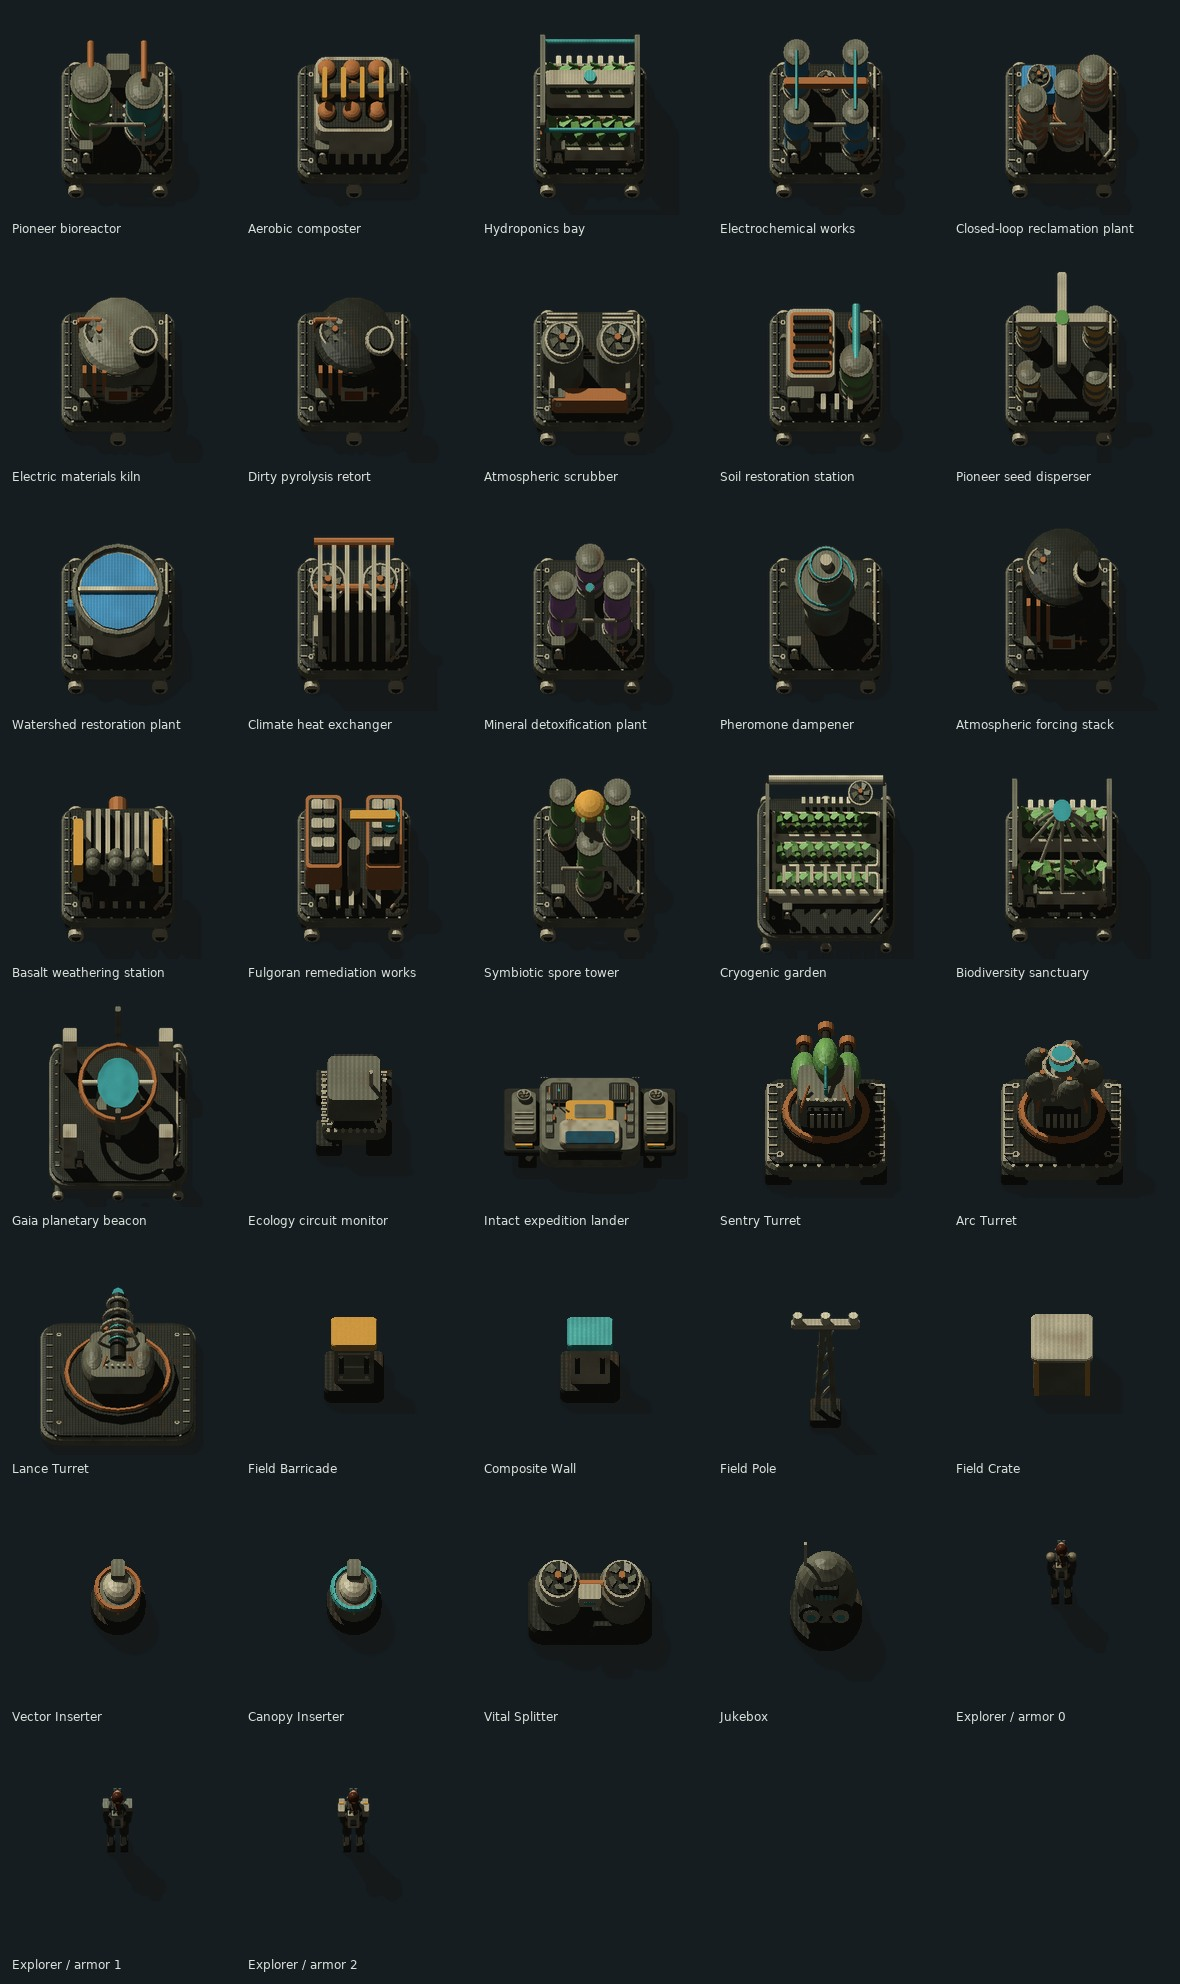
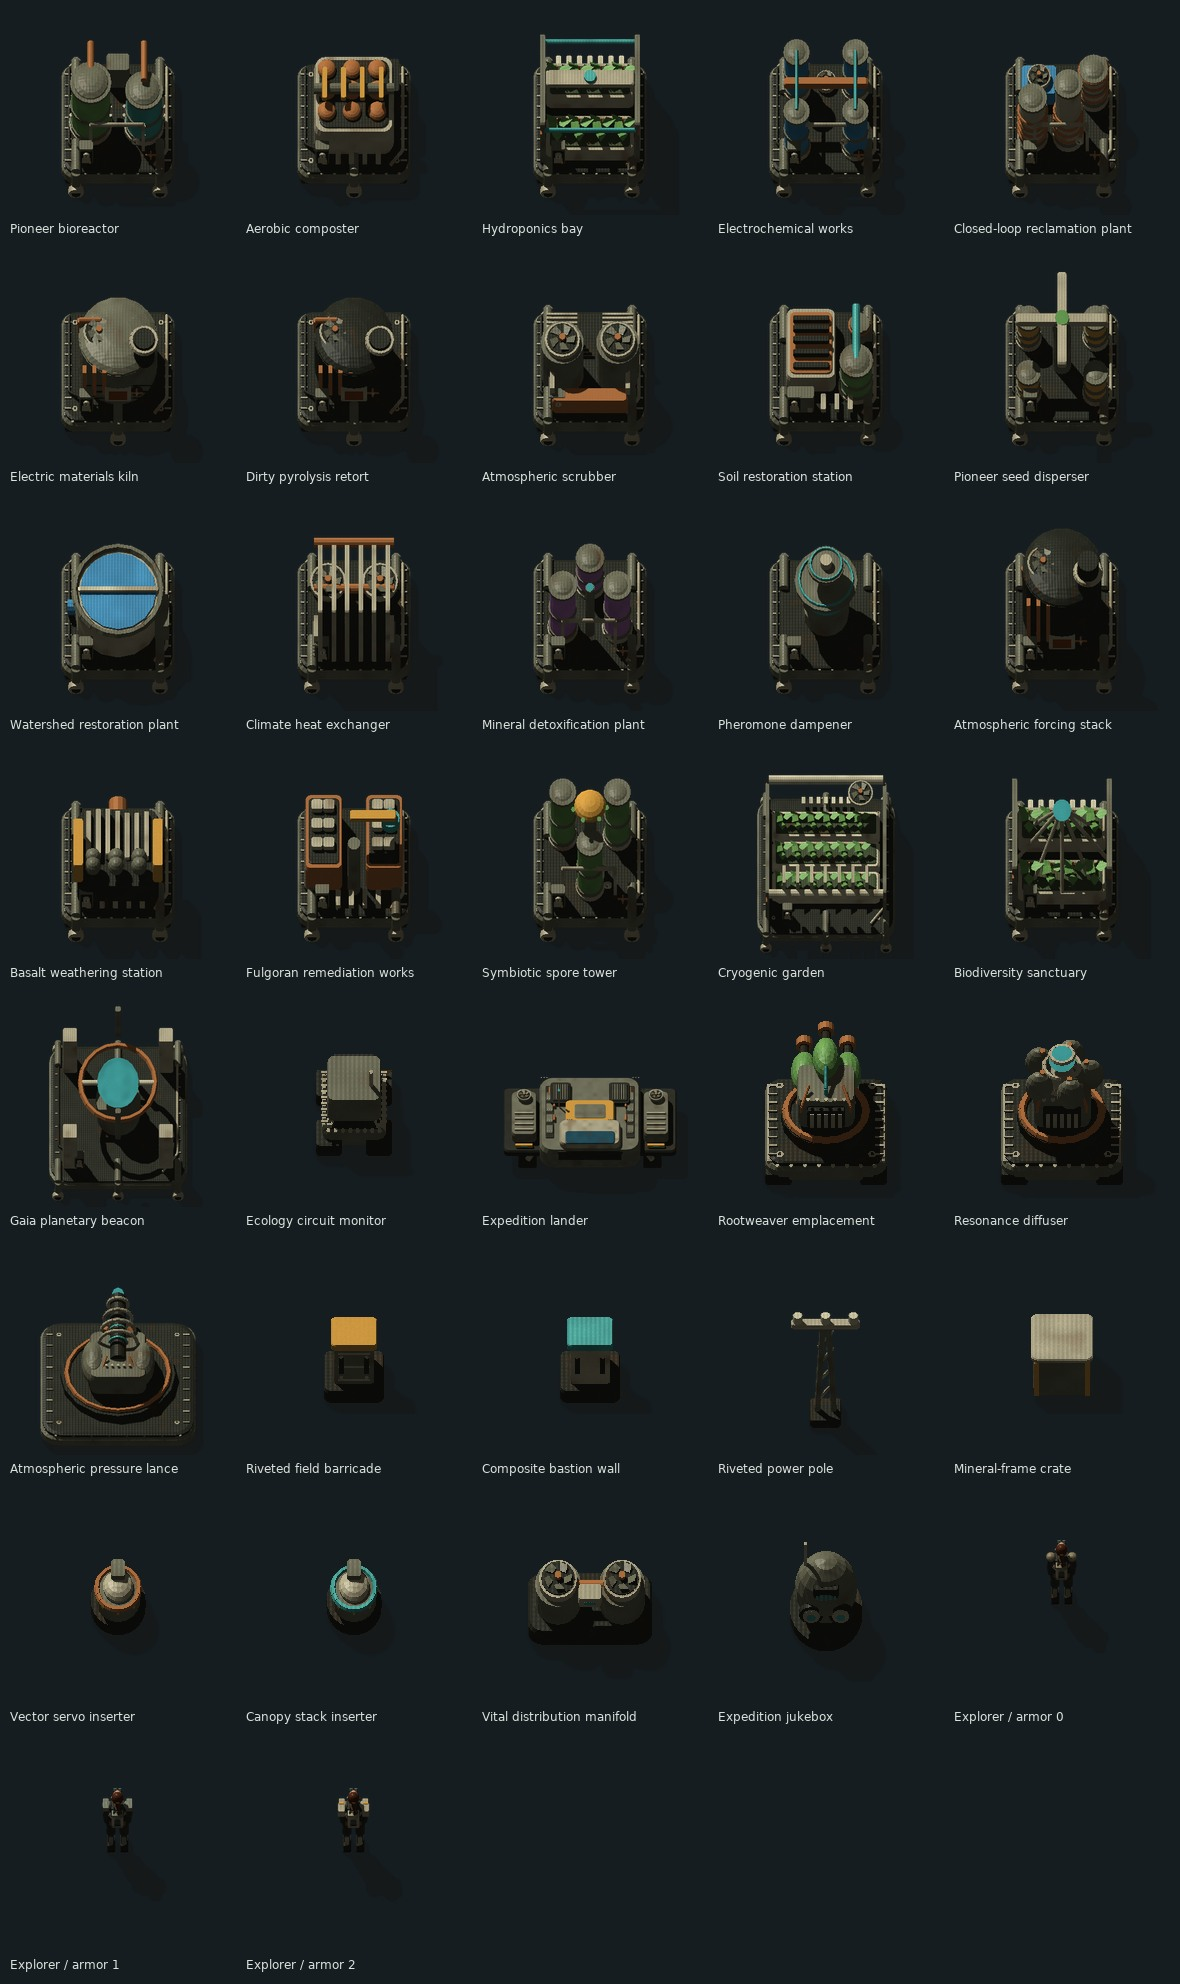
Record Living World engine checks and complete audio asset validation

diff --git a/tests/test_logistics.py b/tests/test_logistics.py
@@ -132,3 +132,27 @@ def test_opening_is_one_complete_native_hero_track_and_replayable_archive(advanc
     jukebox=data['programmable-speaker']['sn-jukebox']
     assert len(jukebox.instruments[1].notes)==4 and jukebox.maximum_polyphony==1
     assert jukebox.instruments[1].notes[3].sound.filename.endswith('we-need-a-living-world.ogg')
+
+
+def test_arrival_audio_contains_complete_voice_then_song_and_saved_lyrics():
+    import json,struct,hashlib
+    from catalog import MOD
+    report=json.loads((ROOT/'docs/art/living-world-score.json').read_text())
+    assert report['intro_seconds']>30 and report['song_seconds']==160
+    assert report['suite_seconds']>report['intro_seconds']+report['song_seconds']
+    assert 'not singing' in report['vocals']
+    assert 'humanity' in ' '.join(report['lyrics'].values()).lower()
+    assert 'green and lush' in report['lyrics']['chorus'].lower()
+    for name,expected in [('we-need-a-living-world.ogg',report['song_seconds']),('landing-transmission.ogg',report['suite_seconds'])]:
+        data=(MOD/'sound/music'/name).read_bytes();assert data[:4]==b'OggS'
+        first=27+data[26];assert data[first:first+7]==b'\x01vorbis'
+        rate=struct.unpack_from('<I',data,first+12)[0];assert rate==32000 and data[first+11]==2
+        position=0;granule=0
+        while position<len(data):
+            assert data[position:position+4]==b'OggS'
+            count=data[position+26];header=27+count
+            value=struct.unpack_from('<Q',data,position+6)[0]
+            if value<2**63:granule=max(granule,value)
+            position+=header+sum(data[position+27:position+header])
+        assert abs(granule/rate-expected)<.05
+        assert hashlib.sha256(data).hexdigest()==report['sha256'][name]

diff --git a/docs/VERIFICATION.md b/docs/VERIFICATION.md
@@ -1,57 +1,70 @@
-# Verification ledger: Foundry and Field 0.4.0 alpha
+# Verification ledger: Living World 0.5.0 alpha
 
-## Reported visual defects
+## Completed stable-engine evidence
 
-A player reported incorrect shooting direction and the pickaxe disappearing at the top of its frame in 0.3. The earlier headless pass verified accepted prototype structures, not the appearance of those animation rows in a graphical client.
+Run [34081716276](https://github.com/Radukan/FC-Test/actions/runs/34081716276), code commit `fc2e379b7a614617eed72d8002c5c99930e716af`, passed the source validator and official Factorio 2.0.77 headless job. The exercised code passed 169 tests. A final complete-audio/lyrics regression brings the local suite to **170 tests**. Release publishing independently revalidates the exact tagged source and re-downloads its assets for checksum/byte comparison.
 
-The 0.4 exporter no longer treats the 18 armed rows as a full-circle turnaround. It uses paired gun-facing/stride-axis rows over the engine-mirrored half. Torso, hands and gun share the aim transform; stride is independent. The projected muzzle vector is checked against the intended facing.
+The source contact sheet, revised pipe-nozzle images, mining frames and complete audio files were generated. Source-art previews are not in-game footage, and waveform/file checks do not establish native-client listening behavior.
 
-Mining has a larger shared-pivot canvas. Authoring checks include every tool vertex and the projected cast shadow across all mining frames, directions and armor looks. A separate pixel-alpha test checks the exported sheets for edge truncation. Character ground axes are already map-aligned, with a second projection correction disabled.
+## What was actually exercised
 
-## Validation status
+| Check | Result / scope |
+|---|---|
+| Lua compilation and strict runtime doubles | Pass; existing campaign, GUI naming, parse-time import and accounting regressions retained |
+| Stable source data stages | Pass; all new prototypes, references, research dependencies, ammo categories and custom vector flags |
+| Original art contracts | Pass; atlas bounds, visible working motion, paired aim poses, full mining/shadow envelope and pointed impact geometry |
+| Fluid-port source contract | Pass; data prototypes and mesh anchors read the same connection coordinates, with every quarter-turn checked |
+| Official C++ prototype load | Pass for buildings, stickers, beam, endgame logistics, hero/music entries and jukebox instruments |
+| Real save creation/reload and 2,100-tick run | Pass |
+| Actual inserter endpoint setters | Pass; diagonal two-tile vectors accepted and out-of-range editor request rejected |
+| Native blueprint vector persistence | Pass; custom pickup/drop values present in the blueprint |
+| Actual custom-vector item transfer | Pass; a powered vector inserter moves four iron plates between the configured diagonal chests |
+| Physical pipe connectivity | Pass in all four machine rotations; visible nozzle boundary agrees with the midpoint between connected pipe centers |
+| Jukebox native calls | Pass; correct instrument/note indices, track selection and stop/replacement call accepted |
+| Combat/campaign probes | Pass; all defense tiers instantiate and accept ammunition, native outcomes and attack/retreat APIs continue to work |
+| Audio asset integrity | Pass; complete stereo Vorbis duration/hash checks, narration-before-song file layout and saved lyrical text |
+| Copy and punctuation | Pass; physical object descriptions and no prohibited long dash characters in current project text |
 
-**Completed 0.4 validation:** [34073999327](https://github.com/Radukan/FC-Test/actions/runs/34073999327), code commit `64e7700f0e5bdd4730ac94cb1f6c71f6144bda8f`. All **157 tests** and the official **Factorio 2.0.77 headless** job passed. The source aiming/mining sheets and revised industrial contact sheet were inspected after export. This ledger was updated after observing that result.
+## Engine-found corrections
 
-Final 0.4 source/engine runs are recorded by the required GitHub validator and release publisher. Do not infer that a prior 0.3 engine run proves later artwork. The publisher must pass the exact tagged source before uploading and re-download both assets for checksum/byte comparison.
+- Blueprint vector tables returned array coordinates; the probe now validates the actual representation rather than assuming named fields.
+- Programmable-speaker instrument and note arguments are one-based. The jukebox maps its UI track indices onto the native one-based archive and the stop note.
+- Pipe connection `position` and `target_position` describe their respective centers. The visible seam is their midpoint, not the machine-side center. The art contract and rotated connectivity probe agree on that boundary.
 
-The suite retains the campaign, pollution, habitat, weapons, protected lander and strict GUI/import regressions. New checks cover:
+## Audio implementation and limits
 
-- Equipment descriptions that explain the object instead of development or availability commentary.
-- No long dash punctuation in current source, in-game localization or GitHub-facing documentation.
-- The menu-only music replacement, valid stereo Vorbis headers, duration and the authored waveform report/hash.
-- Paired armed row structure, muzzle/torso direction and map-space projection.
-- All mining model/shadow bounds, identical state pivots and exported image-edge margins.
-- Atlas dimensions, engine texture bounds and visible working-frame differences.
+The selected synthetic female voice performs an original personal log and spoken lyrics. The synthesis tool cannot sing. The 160-second industrial-punk/metal arrangement is an original synthesized instrumental with spoken vocals, not a sung-metal performance or a recording of a human performer.
 
-The soundtrack is an original 96-second stereo composition. It is synthesized without borrowed samples or melodies. The authoring pass decodes the exported Ogg and records measured peak/RMS in the score report. Source validation parses its Ogg/Vorbis structure; the game package includes the sound directory explicitly.
+The native Nauvis hero track is a single 206.46-second file: 45.76 seconds of narration, a short pause and the anthem. A native arrival track owns the sequence instead of simulation-tick sound fragments. The jukebox is an actual programmable-speaker entity, with local playback by default and administrator-gated surface broadcasting in multiplayer.
 
-Current editable GitHub release titles/bodies have had long dash punctuation removed. Published commit history and other users' historical comments are not rewritten.
+Headless mode has audio disabled. It verifies accepted sound/music/instrument structures and play/stop calls, **not** audible first-arrival timing, music-volume balance, native jukebox UI or overlap behavior. Those remain graphical-client checks.
 
-## What the real-engine harness establishes
+## New editor and logistics limits
 
-The official Factorio 2.0.77 headless job loads C++ prototypes, creates a save, reloads it and runs 2,100 ticks. It exercises real production counters, powered/idle/unpowered behavior, pollution, circuit telemetry, render-object creation, protected landing cargo, native outcomes and attack/retreat commands. Companion probes arrange isolated state to reach those conditions. No debug mutation API ships in the mod.
+Custom pickup/drop positions are integral offsets in [-2,2] on each axis, with the center and identical endpoints excluded. Server-side code checks types, range, ownership and the startup flag. This is a two-tile per-axis range, not a literal four-tile area. Other mods retain their own scripting APIs; no per-tick factory-wide enforcement scan is added.
 
-Both explicit engine success markers and zero exit status are required. A prototype-only load is not counted as a complete pass.
+Native custom-vector state is retained for blueprints. The engine probe verifies a real transfer through configured diagonal positions. Complete rotation/paste/robot/quality combinations and the relative GUI require further client testing.
 
-## Graphical and gameplay checks still required
+The vital transport family shares a 90-item-per-second base rate before stacking. Native tread/corner/stack geometry is retained, with original rounded platforms/manifold art. The canopy manipulator retains the game's four-item belt-stack limit.
 
-- Native client aiming while stationary, strafing, retreating and changing direction, for all weapons and armor states.
-- The native engine's complete mirrored/reversed locomotion selection under real player controls. Authoring vector tests are not a full client interaction test.
-- Pickaxe framing at normal and high zoom, armor/Mech transitions, corpse appearance and all source/shadow alignment.
-- Building scale, port/wire endpoints, full rotations, weapon muzzle placement and all working loops at gameplay zoom.
-- Audible main-menu playback, loop/fade behavior and balance against the user's music-volume setting.
-- Complete no-cheat five-world playthrough, sustained combat balance, multiplayer/desync, older-save migration and large-factory/GPU profiling.
+## Still not certified
 
-The contact sheets and GIFs demonstrate rendered assets, not in-game footage. Original models, richer shading and more detailed textures are not a claim of graphical-client certification.
+- Audible new-game hero-track triggering, narration mix, replay/stop behavior heard through a client and multiplayer audio scope.
+- Every native editor interaction, alternate permissions, rotation/paste, robot construction and controller mode.
+- Pixel-perfect pipe seams and all ports at all zooms, qualities and rotations in a graphical client.
+- Every pickaxe/aiming/armor/Mech transition and native movement combination.
+- Full no-cheat campaign balance, long-term logistics throughput, every weapon target/resistance interaction and friendly firing lanes.
+- Existing-save migration/removal across all possible states, two-client desync tests and large-map/GPU/UPS profiling.
 
 ## Focused retest
 
-1. Open a stable save with the required official mods and Second Nature. Confirm that inventories, character controllers, research and habitat state remain intact.
-2. Aim and fire in all eight facings, then strafe and backpedal. The gun, hands and torso must agree; compare to the source aiming review sheet.
-3. Mine continuously in all directions. The pickaxe and shadow must remain inside their frame without shifting the feet.
-4. Review all building orientations and turret firing states. Check dark surfaces, gauges, moving parts and pipe/wire endpoints.
-5. Read representative material, ammo, armor and building descriptions. They should describe construction/function, not a change request or crafting milestone.
-6. Return to the menu, listen to After the Ash, adjust music volume, then disable the setting and confirm standard menu music is restored.
-7. Recheck the saved-world/campaign and performance scenarios documented in the development guide.
+1. Start fresh Space Age freeplay on Nauvis. Confirm the log is visible and the voice precedes the anthem. Check the opening-audio setting.
+2. Open the landing jukebox; play both scores, replay the transmission and stop playback. Check local versus authorized surface broadcast.
+3. Configure every vanilla inserter type and both new arms. Test both grids, reset, diagonal positions, prohibited cells, blueprints, pasting and robot placement.
+4. Build the whole vital belt family; confirm matched flow, stacking, routing and the sixteen-tile tunnel range.
+5. Attach pipes to each active machine port in all rotations. Compare the real seam against the source alignment diagrams.
+6. Mine in every direction. The tapered point must lead the impact without clipping or foot-pivot shifts.
+7. Use mycelial rounds, resonance effects and pressure-lance impacts. Contamination capture must never manufacture pollution or award free fitness/science.
+8. Recheck preserved campaign state, native decisions, existing defense ammunition and the five-world victory loop.
 
-Record version, mod list, save and reproduction steps for failures. Keep unrun checks explicitly unrun.
+Record game version, mod list, save and reproduction steps. Keep unrun checks labeled unrun.

diff --git a/docs/DEVELOPING.md b/docs/DEVELOPING.md
@@ -106,7 +106,7 @@ python3 tools/package.py
 python3 tools/package.py --target 2.0
 ```
 
-Output: `artifacts/factorio-2.0/second-nature_0.4.0.zip` and its `.zip.sha256` sidecar. The canonical mod folder sits directly at the archive root. Deterministic ordering, timestamps, permissions, allowlisted source paths and metadata are tested. `--target 2.1` is rejected.
+Output: `artifacts/factorio-2.0/second-nature_0.5.0.zip` and its `.zip.sha256` sidecar. The canonical mod folder sits directly at the archive root. Deterministic ordering, timestamps, permissions, allowlisted source paths and metadata are tested. `--target 2.1` is rejected.
 
 Do not commit `.cache`, virtual environments, game binaries, saves, generated release artifacts or ZIP files. They are ignored, and large engine assets are external to the source repository.
 
@@ -117,7 +117,7 @@ The source workflow uses release tag **`v<mod-version>-factorio-2.0`**. `publish
 Example after validation (substitute the actual intended commit):
 
 ```sh
-gh release create v0.4.0-factorio-2.0 --target <validated-commit> --prerelease \
+gh release create v0.5.0-factorio-2.0 --target <validated-commit> --prerelease \
   --title 'Second Nature 0.4.0 · Ironbound Expedition · stable 2.0' --notes-file release-notes.md
 ```
 
@@ -154,3 +154,14 @@ This Arena session remains on `arena/01a07515-fc-test`; push only that branch. G
 - Locale generation rejects long dash punctuation. Text tests cover current tracked/untracked source, and copy tests reject development commentary in item/building descriptions.
 
 The audio authoring dependencies are in `requirements-art.txt`. They are not installed by normal source/engine validation. The runtime music test parses Ogg/Vorbis headers and duration, while authoring reports record decoded peak/RMS and file hashes.
+
+## Living World additions (0.5)
+
+- `shared/fluid_ports.lua` is the canonical connection table. Both prototypes and mesh nozzles use it. Render connector tips at the midpoint between native connection centers, with necks above the plinth until the final elbow.
+- `scripts/inserters.lua` handles native custom pickup/drop endpoints and both relative/standalone editors. Do not store a second incompatible vector representation in blueprints.
+- `scripts/jukebox.lua` uses a real programmable speaker. Instrument/note arguments to `play_note` are one-based. UI track zero maps to the first (silent stop) note.
+- `prototypes/audio.lua` registers the complete arrival sequence as a native Nauvis hero track. The new main-track entry has zero random weight and remains accessible through the archive.
+- `tools/compose_living_world.py` builds the instrumental around original selected spoken vocals. Stored Ogg voice stems are the regeneration inputs; the speech service cannot sing. Regenerate the score only with the optional art/audio dependencies.
+- New engine probes preserve native blueprint vector arrays, transfer actual cargo using diagonal endpoints, connect real pipes in all rotations, and issue native jukebox play/stop requests. Headless has audio disabled and still does not certify the client GUI or audible mix.
+
+The standalone editor is Shift + I. The nearby jukebox shortcut is Ctrl + Shift + J. Native belt tread/corner and inserter hand geometry is reused/tinted for alignment; new platforms, manifolds, casings and weapons are original curved meshes.
